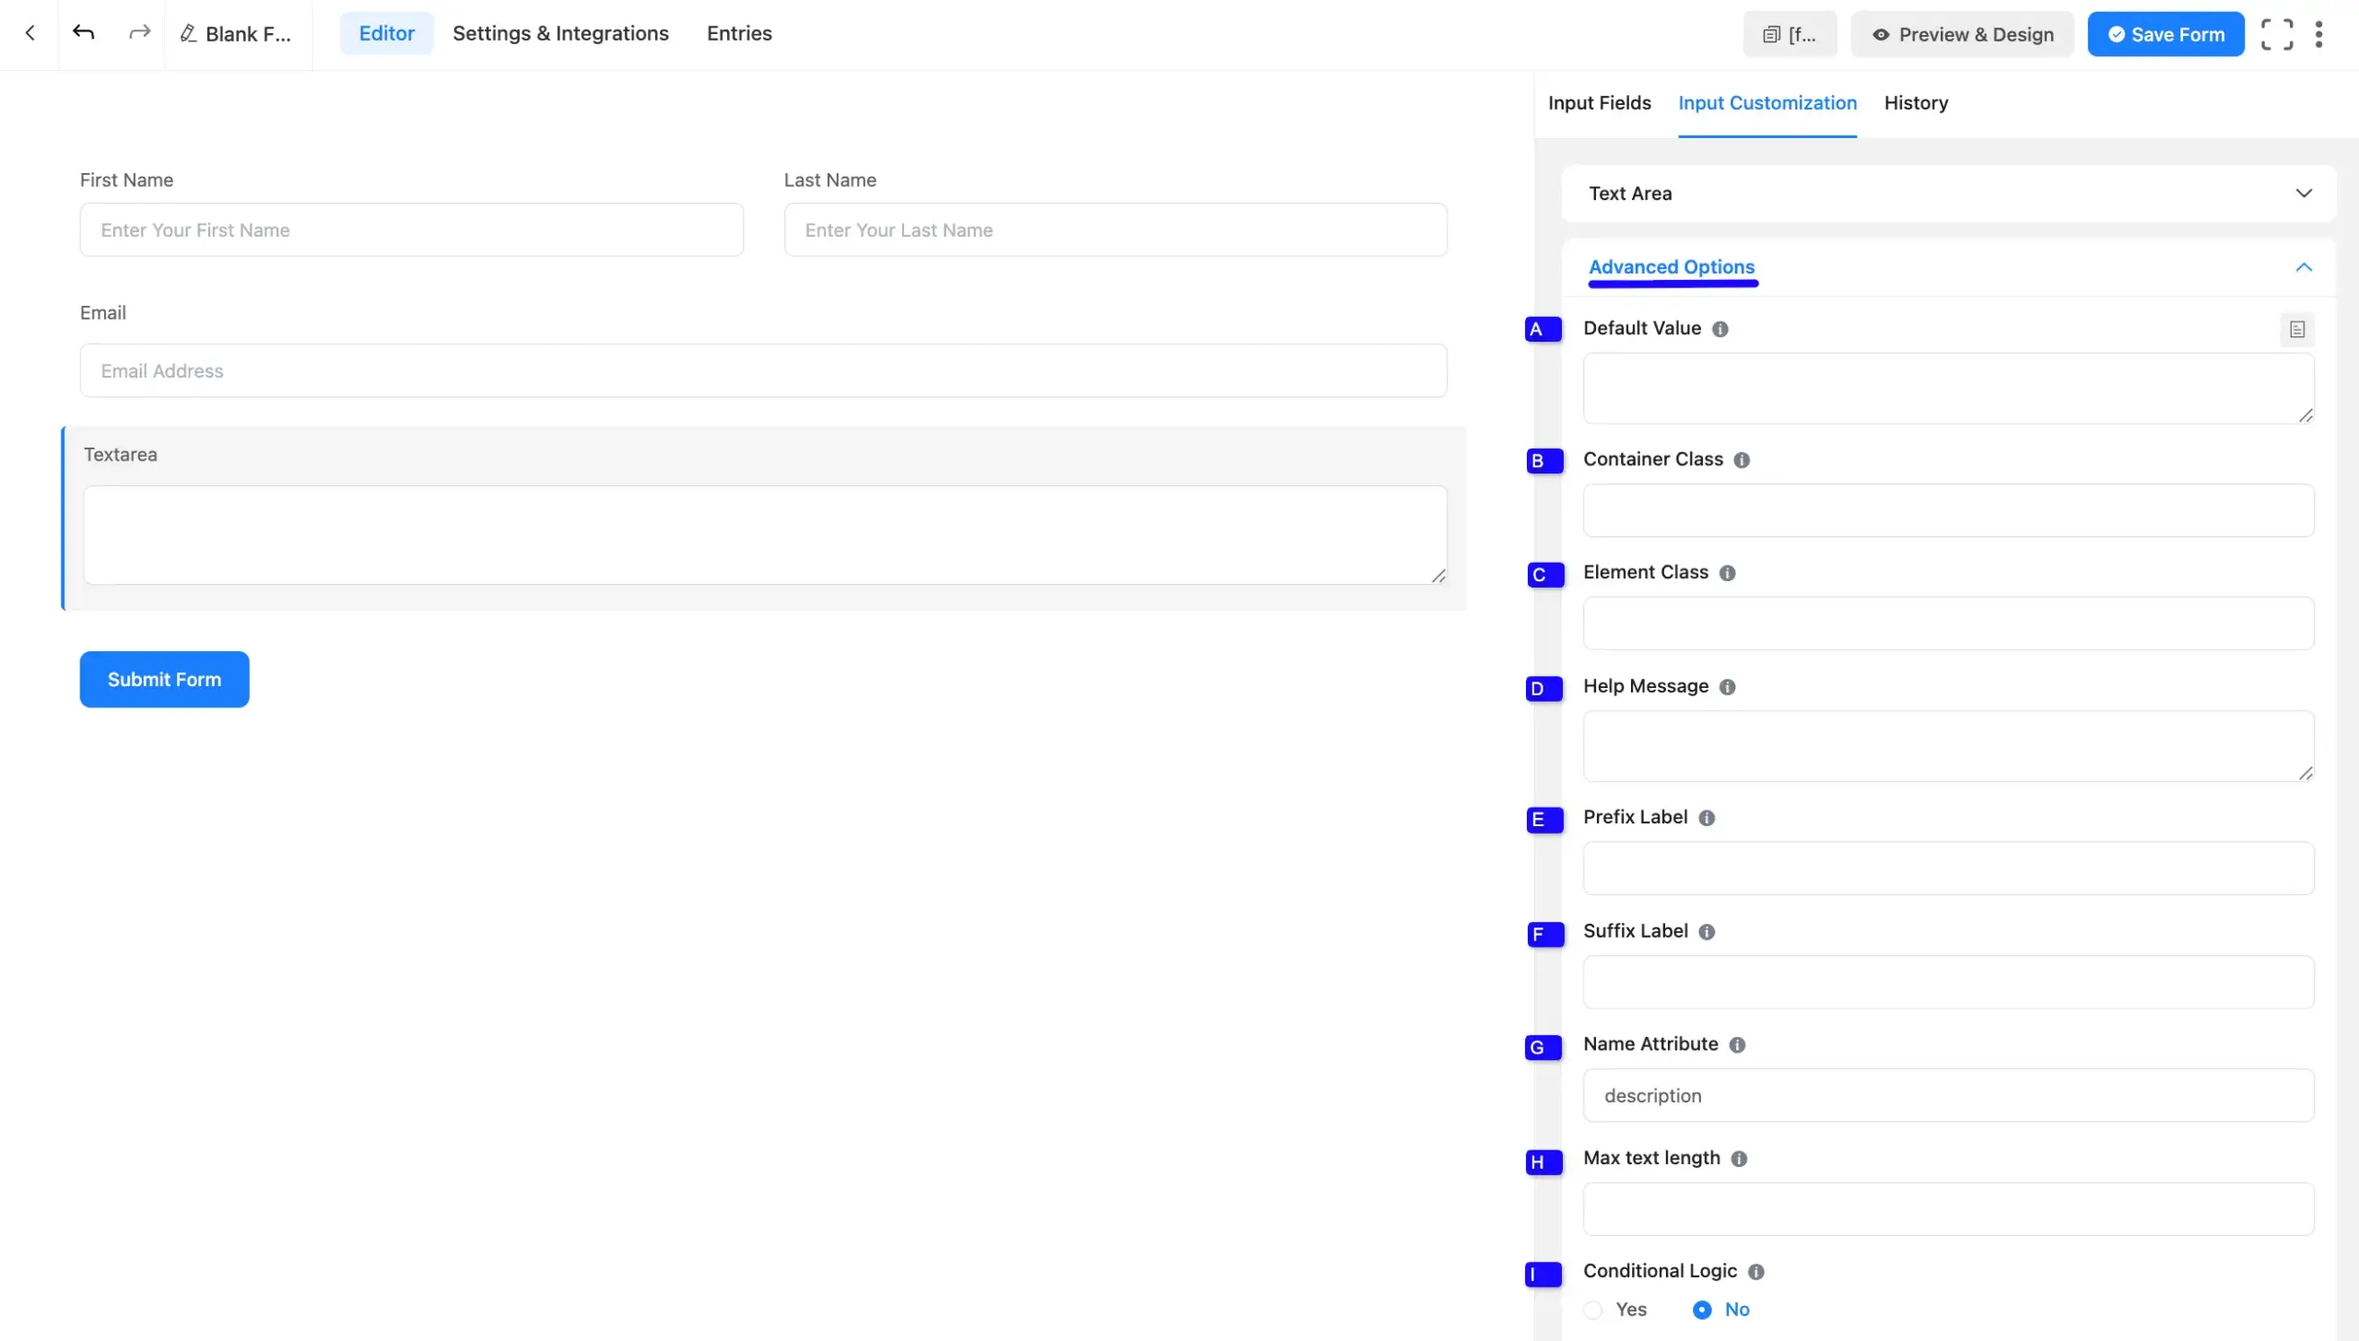
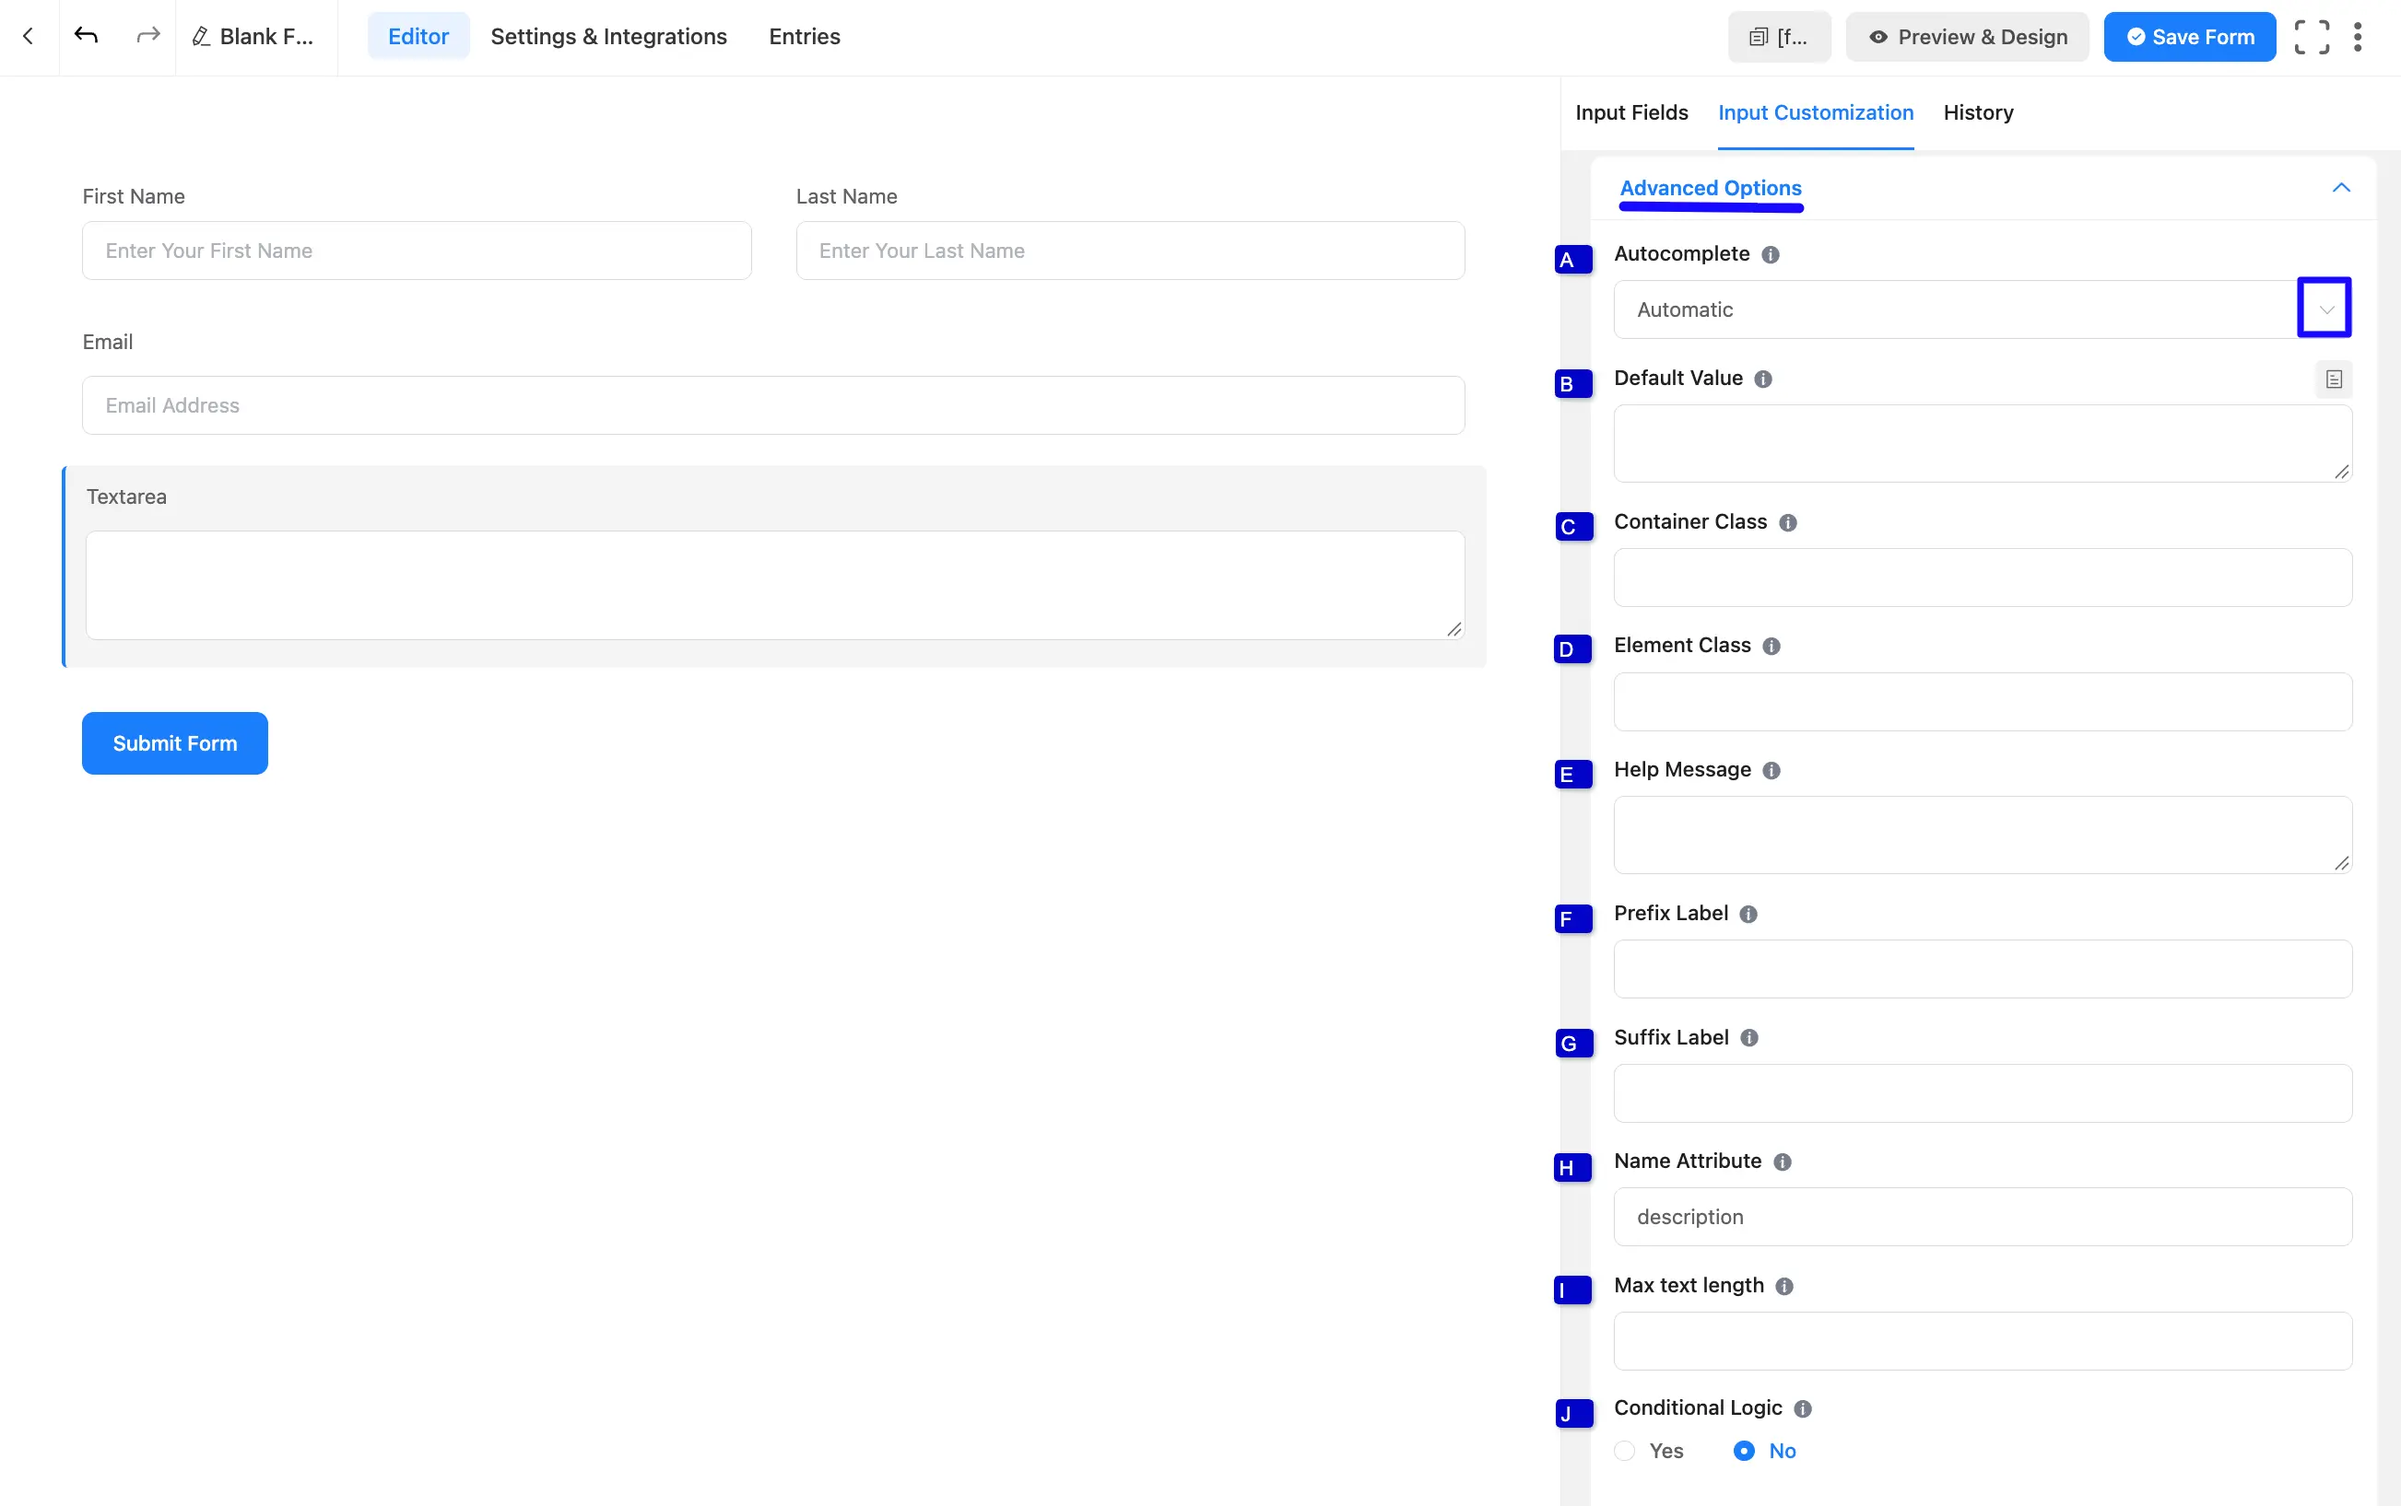
update and image add adding-a-text-area-input-field doc

diff --git a/docs/form-fields/general-fields/adding-a-text-area-input-field.md b/docs/form-fields/general-fields/adding-a-text-area-input-field.md
@@ -58,23 +58,25 @@ You will find various settings options for customizing the field. Located in the
 
 Advanced settings allow further customization to meet specific use cases.
 
-**A. Default Value:** Using our shortcodes, you can manually set any fixed value in your field and pre-fill your input field dynamically. Read [Dynamic Default Value in Fluent Forms](/dynamic-default-value) to better understand Dynamic Default values.
+**A. Autocomplete:** Choose a value that tells the browser what the field collects, so it can offer saved details. Options are **Automatic**, **off**, **None**, or a specific value. To learn more, read [Autocomplete for Form Fields](/autocomplete-for-form-fields).
 
-**B. Container Class:** Use this option to add your custom CSS classes to the field’s wrapper.
+**B. Default Value:** Using our shortcodes, you can manually set any fixed value in your field and pre-fill your input field dynamically. Read [Dynamic Default Value in Fluent Forms](/dynamic-default-value) to better understand Dynamic Default values.
 
-**C. Element Class:** Add custom CSS classes to the input field.
+**C. Container Class:** Use this option to add your custom CSS classes to the field’s wrapper.
 
-**D. Help Message:** This option allows you to guide your user thoroughly. Add your text here, which will be shown as a help message to the user.
+**D. Element Class:** Add custom CSS classes to the input field.
 
-**E. Prefix Label:** Use this to add a prefix text or symbol that appears before the input area to provide additional context.
+**E. Help Message:** This option allows you to guide your user thoroughly. Add your text here, which will be shown as a help message to the user.
 
-**F. Suffix Label:** Use this to add a suffix text or symbol that appears after the input area.
+**F. Prefix Label:** Use this to add a prefix text or symbol that appears before the input area to provide additional context.
 
-**G. Name Attribute:** The input field’s name attribute is the HTML equivalent of the same name. You don't need to modify this.
+**G. Suffix Label:** Use this to add a suffix text or symbol that appears after the input area.
 
-**H. Max Text Length:** You can set the maximum number of characters that the input field can accept. This is ideal for limiting responses like postal codes or shortcodes.
+**H. Name Attribute:** The input field’s name attribute is the HTML equivalent of the same name. You don't need to modify this.
 
-**I. Conditional Logic:** This option allows you to create specific rules to dynamically hide/show the input field to function conditionally based on your submission values according to your set of conditional logics. To learn more, read [Set up Forms with Conditional Logic in Fluent Forms](/set-up-forms-with-conditional-logic). 
+**I. Max Text Length:** You can set the maximum number of characters that the input field can accept. This is ideal for limiting responses like postal codes or shortcodes.
+
+**J. Conditional Logic:** This option allows you to create specific rules to dynamically hide/show the input field to function conditionally based on your submission values according to your set of conditional logics. To learn more, read [Set up Forms with Conditional Logic in Fluent Forms](/set-up-forms-with-conditional-logic). 
 
 ![Textarea Advanced Option](/images/form-fields/general-fields/adding-a-text-area-input-field/textarea-advanced-option-scaled.webp)
 
